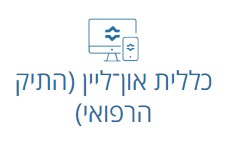
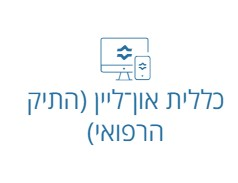
changes

Changed region(s): [[0.0606, 0.0904, 0.9394, 0.8133]]

diff --git a/02-CSS/07 - grid - 20-05-2024/israel-orly-eden-yuval/orly/style.min.css b/02-CSS/07 - grid - 20-05-2024/israel-orly-eden-yuval/orly/style.min.css
@@ -1,1 +1,1 @@
-body{background-color:skyblue}body .grid-container{display:grid;grid-template-rows:250px 250px;grid-template-columns:250px 250px 250px 250px 250px;gap:10px;justify-content:center}body .grid-item{border:1px solid black;background-color:white}body h1{margin-top:0px}body h1 .logo{color:green;background-color:white;font-size:3.2rem;margin-right:600px}body h1 .nav_container{display:flex;position:relative;background-color:white}body h1 .form-inline{margin-top:10px;padding:5px}body h1 .form-inline .btn1{padding:0rem 1rem;margin-right:300px;font-size:1.6rem;background-color:#2e69d8;color:white}body h1 .form-inline .btn2{padding:0rem 1rem;font-size:1.6rem;background-color:green;color:white}h2{margin-right:25%;font-size:50px;color:#06f;font-family:"Open Sans Hebrew", Arial}
+body{background-color:skyblue}body .grid-container{display:grid;grid-template-rows:270px 270px;grid-template-columns:270px 270px 270px 270px 270px;gap:10px;justify-content:center}body .grid-item{border:1px solid black;background-color:white}body .img{margin:25px}body h1{margin-top:0px}body h1 .logo{color:green;background-color:white;font-size:3.2rem;margin-right:600px}body h1 .nav_container{display:flex;position:relative;background-color:white}body h1 .form-inline{margin-top:10px;padding:5px}body h1 .form-inline .btn1{padding:0rem 1rem;margin-right:300px;font-size:1.6rem;background-color:#2e69d8;color:white}body h1 .form-inline .btn2{padding:0rem 1rem;font-size:1.6rem;background-color:green;color:white}h2{margin-right:25%;font-size:50px;color:#06f;font-family:"Open Sans Hebrew";text-decoration:none}

diff --git a/02-CSS/07 - grid - 20-05-2024/israel-orly-eden-yuval/orly/style.scss b/02-CSS/07 - grid - 20-05-2024/israel-orly-eden-yuval/orly/style.scss
@@ -2,19 +2,23 @@ body{
     background-color: skyblue;
 
 
-.grid-container {
-    display: grid;
-    grid-template-rows: 250px 250px;
-    grid-template-columns: 250px 250px 250px 250px 250px;
-    gap: 10px;
-    justify-content: center;
-}
+    .grid-container {
+      display: grid;
+      grid-template-rows: 270px 270px;
+      grid-template-columns: 270px 270px 270px 270px 270px;
+      gap: 10px;
+      justify-content: center;
+  }
+  
 
 .grid-item {
     border: 1px solid black;
     background-color: white;
   }
 
+  .img{
+    margin: 25px;
+  }
 h1 {
 margin-top: 0px;
 
@@ -56,9 +60,10 @@ margin-top: 0px;
 }
 }
 h2 {
-margin-right: 25%;
-font-size: 50px;
-color: rgb(0, 102, 255);
-font-family: "Open Sans Hebrew", Arial;
-
+  margin-right: 25%;
+  font-size: 50px;
+  color: rgb(0, 102, 255);
+  font-family: "Open Sans Hebrew";
+  text-decoration:none;
+  
 }

diff --git a/02-CSS/07 - grid - 20-05-2024/israel-orly-eden-yuval/orly/style.css b/02-CSS/07 - grid - 20-05-2024/israel-orly-eden-yuval/orly/style.css
@@ -4,8 +4,8 @@ body {
 
 body .grid-container {
   display: grid;
-  grid-template-rows: 250px 250px;
-  grid-template-columns: 250px 250px 250px 250px 250px;
+  grid-template-rows: 270px 270px;
+  grid-template-columns: 270px 270px 270px 270px 270px;
   gap: 10px;
   justify-content: center;
 }
@@ -13,6 +13,10 @@ body .grid-container {
 body .grid-item {
   border: 1px solid black;
   background-color: white;
+}
+
+body .img {
+  margin: 25px;
 }
 
 body h1 {
@@ -56,5 +60,6 @@ h2 {
   margin-right: 25%;
   font-size: 50px;
   color: #0066ff;
-  font-family: "Open Sans Hebrew", Arial;
+  font-family: "Open Sans Hebrew";
+  text-decoration: none;
 }
